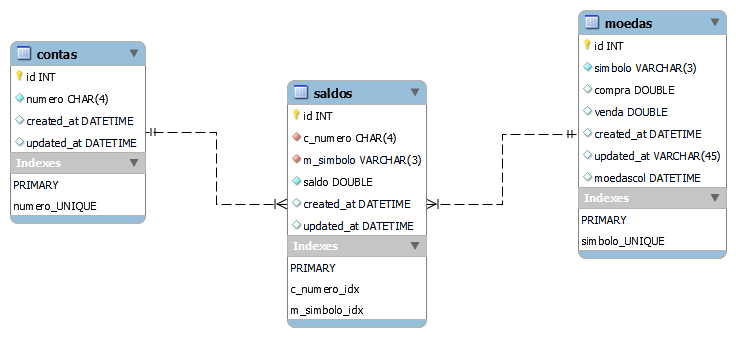
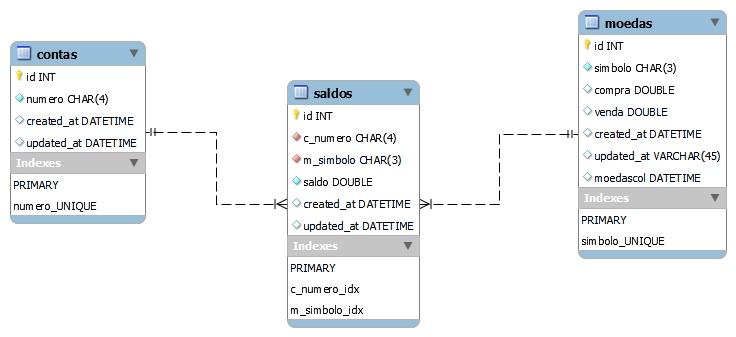
atualizacao migrations

diff --git a/database/migrations/2021_09_13_235033_create_saldos_table.php b/database/migrations/2021_09_13_235033_create_saldos_table.php
@@ -17,7 +17,7 @@ class CreateSaldosTable extends Migration
             $table->id();
             $table->char('c_numero', 4);
             $table->foreign('c_numero')->references('numero')->on('contas');
-            $table->string('m_simbolo', 3);
+            $table->char('m_simbolo', 3);
             $table->foreign('m_simbolo')->references('simbolo')->on('moedas');
             $table->double("saldo");
             $table->timestamps();

diff --git a/database/migrations/2021_09_14_165811_create_cotacaos_table.php b/database/migrations/2021_09_14_165811_create_cotacaos_table.php
@@ -15,7 +15,7 @@ class CreateCotacaosTable extends Migration
     {
         Schema::create('cotacaos', function (Blueprint $table) {
             $table->id();
-            $table->string('m_simbolo', 3);
+            $table->char('m_simbolo', 3);
             $table->foreign('m_simbolo')->references('simbolo')->on('moedas');
             $table->double("compra");
             $table->double("venda");
